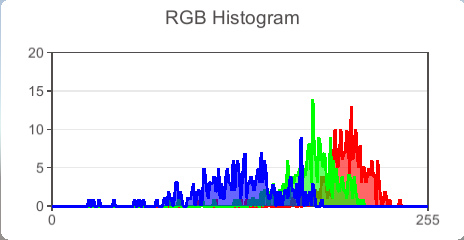
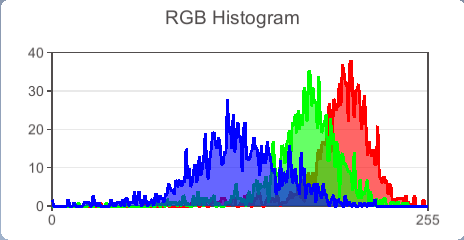
refactor

diff --git a/Assets/Scripts/LabelSystem/ShaderLabelUpdater.cs b/Assets/Scripts/LabelSystem/ShaderLabelUpdater.cs
@@ -74,8 +74,7 @@ namespace LabelSystem
             var colorArray = _colorArray;
             foreach (var label in artefact.Labels)
             {
-                var color = colorArray[label.index];
-                colorArray[label.index] = new Color(color.r, color.g, color.b, 0);
+                colorArray[label.index].a = 0;
             }
 
             ColorArray = colorArray;
@@ -91,8 +90,7 @@ namespace LabelSystem
             var colorArray = _colorArray;
             foreach (var label in artefact.Labels)
             {
-                var color = colorArray[label.index];
-                colorArray[label.index] = new Color(color.r, color.g, color.b, label.color.a);
+                colorArray[label.index].a = label.color.a;
             }
 
             ColorArray = colorArray;
@@ -105,7 +103,7 @@ namespace LabelSystem
             colorArray[label.index] = new Color(0, 0, 0, 0);
             ColorArray = colorArray;
 
-            RemoveLabelIndicesFromVerticesColor(label);
+            RemoveVertices(label);
         }
 
         private void AddVertices(Label label)
@@ -138,15 +136,19 @@ namespace LabelSystem
             artefact.Mesh.colors32 = newColors;
         }
 
-        private void RemoveLabelIndicesFromVerticesColor(Label label)
+        private void RemoveVertices(Label label)
+        {
+            RemoveVertices(label.vertices, label.index);
+        }
+        
+        private void RemoveVertices(List<int> vertices, int lIndex)
         {
             var oldColors = artefact.Mesh.colors32;
             var newColors = artefact.Mesh.colors32;
 
-            label.vertices.ForEach(vIndex =>
+            vertices.ForEach(vIndex =>
             {
                 var vColor = oldColors[vIndex];
-                int lIndex = label.index;
 
                 byte r = vColor.r;
                 byte g = vColor.g;

diff --git a/Assets/Scripts/ArtefactSystem/Artefact.cs b/Assets/Scripts/ArtefactSystem/Artefact.cs
@@ -13,6 +13,7 @@ namespace ArtefactSystem
         private MeshFilter MeshFilter { get; set; }
         public Mesh Mesh => MeshFilter.sharedMesh;
         public MeshCollider MeshCollider { get; private set; }
+
         public Texture2D Texture
         {
             get => Renderer.material.mainTexture as Texture2D;
@@ -116,7 +117,7 @@ namespace ArtefactSystem
 
         private void InitLabels()
         {
-            var labels = LabelJsonUtil.Load().ToList();
+            var labels = LabelJsonPersister.Load().ToList();
             Labels = new List<Label>(labels);
 
             LabelsChanged?.Invoke(this, new LabelsChangedEventArgs { Type = LabelEvent.Add, Items = labels });
@@ -131,7 +132,7 @@ namespace ArtefactSystem
             ShaderUpdater.RemoveShaderLabel(label);
 
             // Remove label from disk
-            LabelJsonUtil.Save(Labels);
+            LabelJsonPersister.Save(Labels);
 
             LabelsChanged?.Invoke(this,
                 new LabelsChangedEventArgs { Type = LabelEvent.Remove, Items = new List<Label> { label } });
@@ -153,7 +154,7 @@ namespace ArtefactSystem
 
             ShaderUpdater.UpdateLabelColor(Labels[listIndex]);
 
-            LabelJsonUtil.Save(Labels);
+            LabelJsonPersister.Save(Labels);
 
             LabelsChanged?.Invoke(this,
                 new LabelsChangedEventArgs { Type = LabelEvent.Update, Items = new List<Label> { Labels[listIndex] } });
@@ -178,7 +179,7 @@ namespace ArtefactSystem
             ShaderUpdater.UpdateLabelColor(newLabel);
 
             // Add label to disk
-            LabelJsonUtil.Save(Labels);
+            LabelJsonPersister.Save(Labels);
 
             LabelsChanged?.Invoke(this,
                 new LabelsChangedEventArgs { Type = LabelEvent.Add, Items = new List<Label> { newLabel } });

diff --git a/Assets/Scripts/UI/HistogramUI.cs b/Assets/Scripts/UI/HistogramUI.cs
@@ -1,3 +1,5 @@
+using System;
+using System.IO;
 using ArtefactSystem;
 using UnityEngine;
 using UnityEngine.UI;
@@ -6,25 +8,21 @@ using XCharts.Runtime;
 namespace UI
 {
     [RequireComponent(typeof(BrushUI))]
-    public class RGBHistogram : MonoBehaviour
+    public class HistogramUI : MonoBehaviour
     {
         [SerializeField] private Artefact artefact;
         [SerializeField] private GameObject windowPrefab;
 
         private GameObject _window;
         private LineChart _histogram;
-
-        private void Update()
-        {
-            return;
-        }
-
+        private int _labelIndex;
+        
         public void CreateWindow(int labelIndex)
         {
             Destroy(_window);
             _window = Instantiate(windowPrefab, gameObject.transform);
             _histogram = _window.GetComponentInChildren<LineChart>();
-
+            
             var deleteButton = _window.transform.Find("DeleteButton").GetComponent<Button>();
             deleteButton.onClick.AddListener(OnDeleteButtonClick);
 
@@ -36,7 +34,9 @@ namespace UI
 
         private void OnSaveButtonClick()
         {
-            _histogram.SaveAsImage();
+            var fileName = $"hist_{_labelIndex}_{DateTime.Now:yyyy-MM-dd_HH-mm-ss}.png";
+            var savePath = Path.Combine(Application.persistentDataPath, fileName);
+            _histogram.SaveAsImage("png", savePath);
         }
 
         private void OnDeleteButtonClick()

diff --git a/Assets/Scripts/UI/BrushUI.cs b/Assets/Scripts/UI/BrushUI.cs
@@ -16,7 +16,7 @@ namespace UI
         [SerializeField] private Transform contentHolder;
         [SerializeField] private Artefact artefact;
         [SerializeField] private Brush brush;
-        [SerializeField] private RGBHistogram rgbHistogram;
+        [SerializeField] private HistogramUI histogramUI;
 
         private readonly Dictionary<int, UILabel> _uiLabels = new();
 
@@ -26,11 +26,6 @@ namespace UI
         {
             AddUILabels(artefact.Labels);
             artefact.LabelsChanged += ModifyUILabels;
-        }
-
-        private void Update()
-        {
-            return;
         }
 
         private void AddUILabels(List<Label> labels)
@@ -94,7 +89,7 @@ namespace UI
 
         private void OnGenerateGraphButtonClick(int labelIndex)
         {
-            rgbHistogram.CreateWindow(labelIndex);
+            histogramUI.CreateWindow(labelIndex);
         }
 
         /**

diff --git a/Assets/Scripts/LabelSystem/Utils/LabelJsonPersister.cs b/Assets/Scripts/LabelSystem/Utils/LabelJsonPersister.cs
@@ -5,7 +5,7 @@ using UnityEngine;
 
 namespace LabelSystem.Utils
 {
-    public static class LabelJsonUtil
+    public static class LabelJsonPersister
     {
         private const string JsonFileName = "labels.json";
 

diff --git a/Assets/Scripts/ArtefactSystem/ArtefactTexture.cs b/Assets/Scripts/ArtefactSystem/ArtefactTexture.cs
@@ -1,5 +1,4 @@
 using System.Collections.Generic;
-using System.Globalization;
 using System.Text.RegularExpressions;
 using Exceptions;
 using UnityEngine;
